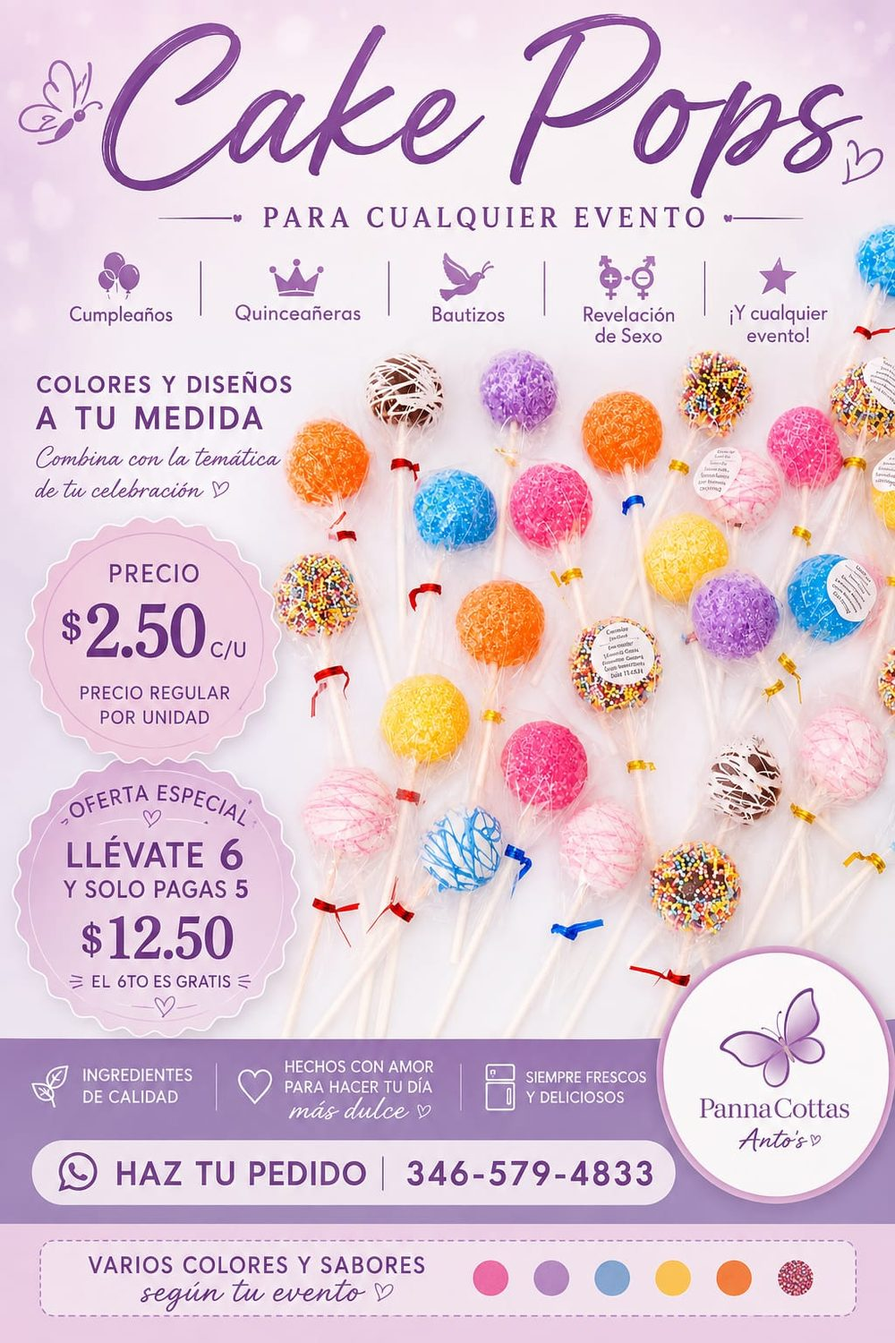
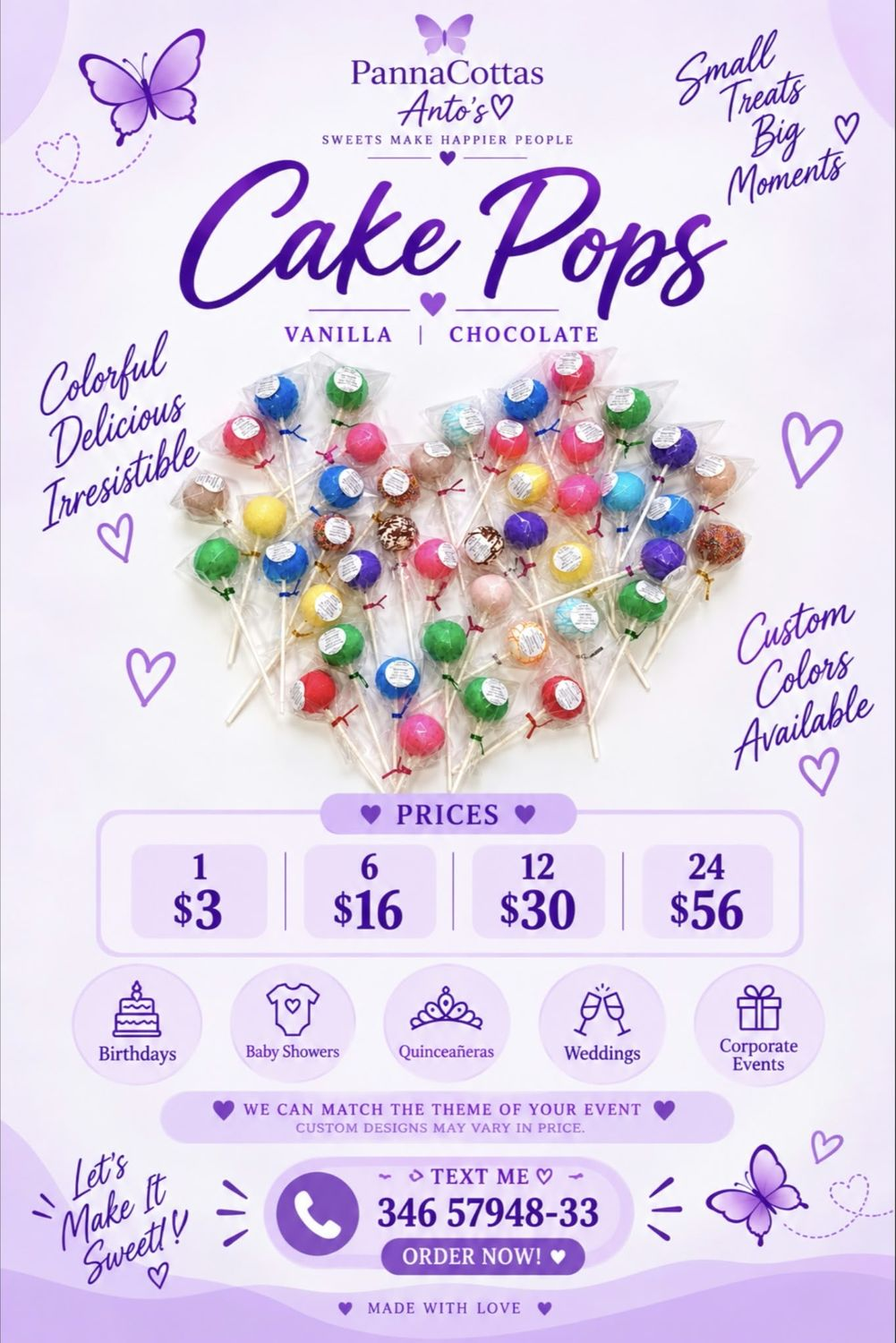
Precios nuevos y sección de Eventos y Celebraciones
Precios actualizados con las cartas de septiembre: panna cotta $5,
cookies $4 (13 sabores), cake pops $3 c/u con bandejas de 6/12/24.
Cartas nuevas de menú general, cookies y cake pops, más una carta
nueva de panna cotta (la rejilla pasa de 6 a 7).

Sección nueva de Eventos y Celebraciones con las seis bandejas de 12
unidades, enlazada desde el menú, el pie y la tarjeta de Postres.

diff --git a/index.html b/index.html
@@ -4,7 +4,7 @@
 <meta charset="UTF-8" />
 <meta name="viewport" content="width=device-width, initial-scale=1.0" />
 <title>Panna Cottas Anto's · Postres artesanales en Katy, TX</title>
-<meta name="description" content="Postres artesanales hechos a mano en pequeñas tandas en Katy, TX. Panna cotta, flan, cake pops, mini tres leches y cookies. Mira el menú y pide por WhatsApp." />
+<meta name="description" content="Postres artesanales hechos a mano en pequeñas tandas en Katy, TX. Panna cotta, flan, cake pops, mini tres leches y cookies, y bandejas de mini postres para eventos. Mira el menú y pide por WhatsApp." />
 <meta name="theme-color" content="#3E2E4F" />
 
 <link rel="canonical" href="https://pannacottas-antos.vercel.app/" />
@@ -16,7 +16,7 @@
 <meta property="og:type" content="website" />
 <meta property="og:site_name" content="Panna Cottas Anto's" />
 <meta property="og:title" content="Panna Cottas Anto's · Postres artesanales en Katy, TX" />
-<meta property="og:description" content="Panna cotta, flan, cake pops, mini tres leches y cookies hechos a mano en pequeñas tandas. Pide por WhatsApp." />
+<meta property="og:description" content="Panna cotta, flan, cake pops, mini tres leches y cookies hechos a mano en pequeñas tandas, y bandejas de mini postres para eventos. Pide por WhatsApp." />
 <meta property="og:url" content="https://pannacottas-antos.vercel.app/" />
 <meta property="og:image" content="https://pannacottas-antos.vercel.app/assets/marca/og.jpg" />
 <meta property="og:image:width" content="1200" />
@@ -229,6 +229,33 @@
   .cta-bfly{width:30px;height:30px;color:var(--lavanda);margin-bottom:.6rem}
   .card-cta h3{font-size:1.75rem;font-weight:500;margin-bottom:.5rem}
   .card-cta p{color:var(--ciruela-soft);font-size:.97rem;margin-bottom:1.3rem}
+  .cta-actions{display:flex;flex-wrap:wrap;gap:.7rem}
+
+  /* ================= EVENTOS Y CELEBRACIONES ================= */
+  .eventos{position:relative;overflow:hidden;margin-top:clamp(3rem,6vw,5rem);
+    padding:clamp(3.2rem,6.5vw,5.5rem) 0;
+    background:linear-gradient(162deg,var(--lavanda-wash) 0%,var(--rosa-wash) 58%,var(--porcelana-alt) 100%)}
+  .eventos .wrap{position:relative;z-index:2}
+  .ev-intro{display:grid;grid-template-columns:1.08fr .92fr;gap:clamp(2rem,5vw,4rem);align-items:center;
+    margin-bottom:clamp(2.4rem,5vw,3.4rem)}
+  .ev-intro h2{font-size:clamp(1.95rem,4vw,3rem);font-weight:500;margin:.7rem 0 .9rem}
+  .ev-intro h2 .script{font-size:1.22em;line-height:.9;display:inline-block}
+  .ev-copy p{color:var(--ciruela-soft);font-size:1.02rem;max-width:34rem}
+  .ev-occ{list-style:none;display:flex;flex-wrap:wrap;gap:.5rem;margin:1.3rem 0 1.7rem;padding:0}
+  .ev-occ li{font-size:.72rem;letter-spacing:.14em;text-transform:uppercase;color:var(--ciruela-soft);
+    background:rgba(255,255,255,.74);border:1px solid rgba(62,46,79,.10);border-radius:999px;padding:.42rem .95rem}
+  .ev-photo{position:relative;display:block;width:100%;padding:0;cursor:zoom-in;overflow:hidden;
+    border:1px solid rgba(255,255,255,.8);border-radius:var(--r-l);background:var(--white);
+    box-shadow:var(--shadow-l);transition:transform .25s ease}
+  .ev-photo:hover{transform:translateY(-4px)}
+  .ev-photo img{width:100%;height:auto}
+  .ev-grid{grid-template-columns:repeat(3,1fr)}
+  .ev-shot{display:block;width:100%;padding:0;border:0;cursor:zoom-in;font:inherit}
+  .ev-shot img{object-position:center 58%}
+  .ev-shot.up img{object-position:center 44%}
+  .ev-note{display:flex;align-items:center;justify-content:center;gap:.6rem;flex-wrap:wrap;text-align:center;
+    margin:clamp(2rem,4vw,2.8rem) auto 0;color:var(--ciruela-soft);font-size:.95rem}
+  .ev-note svg{width:16px;height:16px;color:var(--oro);flex:none}
 
   /* ================= MIÉRCOLES DE WOBBLE ================= */
   .wobble-band{position:relative;background:var(--ciruela);color:#fff;overflow:hidden;margin-top:clamp(3rem,6vw,5rem)}
@@ -260,6 +287,7 @@
     overflow:hidden;cursor:pointer;box-shadow:var(--shadow-s);transition:transform .25s ease,box-shadow .25s ease,border-color .25s ease}
   .menu-tile:hover{transform:translateY(-4px);box-shadow:var(--shadow-m);border-color:var(--lavanda-soft)}
   .menu-tile img{width:100%;height:auto}
+  .menu-tile:last-child:nth-child(3n+1){grid-column:2}
   .zoom{position:absolute;right:.7rem;bottom:.7rem;width:34px;height:34px;border-radius:50%;
     background:rgba(255,255,255,.92);display:flex;align-items:center;justify-content:center;color:var(--ciruela);box-shadow:var(--shadow-s)}
   .zoom svg{width:16px;height:16px}
@@ -351,6 +379,11 @@
     .about-photo{max-width:420px;margin-inline:auto}
     .wobble-inner{grid-template-columns:1fr}
     .foot-grid{grid-template-columns:1fr 1fr}
+    .nav-links{gap:1.05rem}
+    .nav-links a{font-size:.89rem}
+    .ev-intro{grid-template-columns:1fr;gap:2.4rem}
+    .ev-photo{max-width:460px;margin-inline:auto}
+    .ev-grid{grid-template-columns:repeat(2,1fr)}
   }
   @media (max-width:760px){
     body{font-size:16px}
@@ -364,6 +397,8 @@
     .booth-grid{grid-template-columns:1fr}
     .card-cta{grid-column:span 1}
     .menu-grid{grid-template-columns:1fr 1fr}
+    .menu-tile:last-child:nth-child(3n+1){grid-column:auto}
+    .ev-grid{grid-template-columns:1fr}
     .foot-grid{grid-template-columns:1fr;gap:1.8rem}
     .emblem-float{width:104px;right:-4px}
   }
@@ -421,6 +456,7 @@
       <a href="#inicio" data-es="Inicio" data-en="Home">Inicio</a>
       <a href="#sobre" data-es="La historia" data-en="The story">La historia</a>
       <a href="#postres" data-es="Postres" data-en="Desserts">Postres</a>
+      <a href="#eventos" data-es="Eventos" data-en="Events">Eventos</a>
       <a href="#wobble" data-es="El wobble" data-en="The wobble">El wobble</a>
       <a href="#menu" data-es="Menú" data-en="Menu">Menú</a>
       <a href="#booth" data-es="Booth" data-en="Booth">Booth</a>
@@ -521,7 +557,7 @@
         <span class="eyebrow"><svg class="bfly"><use href="#i-bfly"/></svg><span data-es="Nuestros postres" data-en="Our desserts">Nuestros postres</span></span>
         <h2 data-es="El antojo bonito que se comparte." data-en="The pretty craving worth sharing.">El antojo bonito que se comparte.</h2>
       </div>
-      <span class="price-note"><svg><use href="#i-star"/></svg><span data-es="Desde $2.50 · Compra 5 y llévate 1 gratis" data-en="From $2.50 · Buy 5, get 1 free">Desde $2.50 · Compra 5 y llévate 1 gratis</span></span>
+      <span class="price-note"><svg><use href="#i-star"/></svg><span data-es="Desde $3 · Compra 5 y llévate 1 gratis" data-en="From $3 · Buy 5, get 1 free">Desde $3 · Compra 5 y llévate 1 gratis</span></span>
     </div>
     <div class="grid">
 
@@ -531,7 +567,7 @@
           <h3>Panna Cotta</h3>
           <p class="flavors" data-es="Cremosa, temblorosa y suave. Fresa, frutos rojos, durazno, Nutella o dulce de leche, en vasito individual." data-en="Creamy, wobbly and smooth. Strawberry, red berries, peach, Nutella or dulce de leche, in individual cups.">Cremosa, temblorosa y suave. Fresa, frutos rojos, durazno, Nutella o dulce de leche, en vasito individual.</p>
           <div class="card-foot">
-            <span class="from"><small data-es="Desde" data-en="From">Desde</small>$4</span>
+            <span class="from"><small data-es="Desde" data-en="From">Desde</small>$5</span>
             <a class="order-link wa" href="#" target="_blank" rel="noopener" data-msg-es="¡Hola Antonia! 🍓 Quiero pedir Panna Cotta (dime los sabores disponibles)." data-msg-en="Hi Antonia! 🍓 I'd like to order Panna Cotta (which flavors are available?).">
               <span data-es="Pedir" data-en="Order">Pedir</span><svg><use href="#i-arrow"/></svg></a>
           </div>
@@ -555,9 +591,9 @@
         <div class="card-img"><img src="assets/productos/cake-pops.jpg" width="1100" height="870" loading="lazy" decoding="async" alt="Cake pops de colores decorados con sprinkles"><span class="card-tag" data-es="Para eventos" data-en="For events">Para eventos</span></div>
         <div class="card-body">
           <h3>Cake Pops</h3>
-          <p class="flavors" data-es="Bocaditos divertidos de vainilla o chocolate. Perfectos para compartir y celebrar." data-en="Fun little bites of vanilla or chocolate. Perfect to share and celebrate.">Bocaditos divertidos de vainilla o chocolate. Perfectos para compartir y celebrar.</p>
+          <p class="flavors" data-es="Bocaditos divertidos de vainilla o chocolate, perfectos para compartir. 6 por $16 · 12 por $30 · 24 por $56." data-en="Fun little bites of vanilla or chocolate, perfect to share. 6 for $16 · 12 for $30 · 24 for $56.">Bocaditos divertidos de vainilla o chocolate, perfectos para compartir. 6 por $16 · 12 por $30 · 24 por $56.</p>
           <div class="card-foot">
-            <span class="from"><small data-es="Desde" data-en="From">Desde</small>$2.50</span>
+            <span class="from"><small data-es="Desde" data-en="From">Desde</small>$3</span>
             <a class="order-link wa" href="#" target="_blank" rel="noopener" data-msg-es="¡Hola Antonia! 🍭 Quiero pedir Cake Pops (vainilla o chocolate)." data-msg-en="Hi Antonia! 🍭 I'd like to order Cake Pops (vanilla or chocolate).">
               <span data-es="Pedir" data-en="Order">Pedir</span><svg><use href="#i-arrow"/></svg></a>
           </div>
@@ -591,12 +627,12 @@
       </article>
 
       <article class="card reveal">
-        <div class="card-img"><img src="assets/productos/cookies.jpg" width="825" height="1100" loading="lazy" decoding="async" alt="Cookies Anto's: Red Velvet, Oreo Monster, M&amp;M's y más"><span class="card-tag" data-es="14 sabores" data-en="14 flavors">14 sabores</span></div>
+        <div class="card-img"><img src="assets/productos/cookies.jpg" width="825" height="1100" loading="lazy" decoding="async" alt="Cookies Anto's: Red Velvet, Oreo Monster, M&amp;M's y más"><span class="card-tag" data-es="13 sabores" data-en="13 flavors">13 sabores</span></div>
         <div class="card-body">
           <h3>Cookies</h3>
           <p class="flavors" data-es="Oreo Monster, Red Velvet, chips de chocolate, M&amp;M's, Kinder Bueno y más, según la temporada." data-en="Oreo Monster, Red Velvet, chocolate chips, M&amp;M's, Kinder Bueno and more, depending on the season.">Oreo Monster, Red Velvet, chips de chocolate, M&amp;M's, Kinder Bueno y más, según la temporada.</p>
           <div class="card-foot">
-            <span class="from"><small data-es="Desde" data-en="From">Desde</small>$3</span>
+            <span class="from"><small data-es="Desde" data-en="From">Desde</small>$4</span>
             <a class="order-link wa" href="#" target="_blank" rel="noopener" data-msg-es="¡Hola Antonia! 🍪 Quiero pedir Cookies (dime los sabores de la temporada)." data-msg-en="Hi Antonia! 🍪 I'd like to order Cookies (which flavors are in season?).">
               <span data-es="Pedir" data-en="Order">Pedir</span><svg><use href="#i-arrow"/></svg></a>
           </div>
@@ -621,12 +657,137 @@
           <svg class="cta-bfly"><use href="#i-bfly"/></svg>
           <h3 data-es="¿No sabes cuál elegir?" data-en="Not sure which to pick?">¿No sabes cuál elegir?</h3>
           <p data-es="Cuéntame para cuántas personas es y yo te armo la caja. También hacemos pedidos para cumpleaños, baby showers y eventos." data-en="Tell me how many people it's for and I'll put the box together. We also take orders for birthdays, baby showers and events.">Cuéntame para cuántas personas es y yo te armo la caja. También hacemos pedidos para cumpleaños, baby showers y eventos.</p>
-          <a class="btn btn-primary wa" href="#" target="_blank" rel="noopener" data-msg-es="¡Hola Antonia! 🍓 Quiero armar una caja de postres, ¿me ayudas a elegir?" data-msg-en="Hi Antonia! 🍓 I'd like to put together a dessert box, can you help me choose?">
-            <svg><use href="#i-wa"/></svg><span data-es="Armar mi pedido" data-en="Build my order">Armar mi pedido</span></a>
+          <div class="cta-actions">
+            <a class="btn btn-primary wa" href="#" target="_blank" rel="noopener" data-msg-es="¡Hola Antonia! 🍓 Quiero armar una caja de postres, ¿me ayudas a elegir?" data-msg-en="Hi Antonia! 🍓 I'd like to put together a dessert box, can you help me choose?">
+              <svg><use href="#i-wa"/></svg><span data-es="Armar mi pedido" data-en="Build my order">Armar mi pedido</span></a>
+            <a class="btn btn-ghost" href="#eventos" data-es="Bandejas para eventos" data-en="Event trays">Bandejas para eventos</a>
+          </div>
         </div>
       </article>
 
     </div>
+  </div>
+</section>
+
+<!-- ============ EVENTOS Y CELEBRACIONES ============ -->
+<section class="eventos dots" id="eventos">
+  <div class="wrap">
+    <div class="ev-intro">
+      <div class="ev-copy reveal">
+        <span class="eyebrow"><svg class="bfly"><use href="#i-bfly"/></svg><span data-es="Para compartir" data-en="Made to share">Para compartir</span></span>
+        <h2 data-es="Eventos y <span class='script'>Celebraciones</span>" data-en="Events &amp; <span class='script'>Celebrations</span>">Eventos y <span class="script">Celebraciones</span></h2>
+        <p data-es="Celebra con postres artesanales preparados especialmente para compartir. Nuestras presentaciones individuales son perfectas para cumpleaños, baby showers, bodas, reuniones y cualquier ocasión especial." data-en="Celebrate with handcrafted desserts made especially to share. Our individual servings are perfect for birthdays, baby showers, weddings, get-togethers and any special occasion.">Celebra con postres artesanales preparados especialmente para compartir. Nuestras presentaciones individuales son perfectas para cumpleaños, baby showers, bodas, reuniones y cualquier ocasión especial.</p>
+        <p data-es="Elige tus favoritos en bandejas de 12 unidades y combina los sabores para crear una mesa dulce bonita, variada y hecha con mucho cariño." data-en="Pick your favorites in trays of 12 and mix the flavors to create a dessert table that is pretty, varied and made with lots of love.">Elige tus favoritos en bandejas de 12 unidades y combina los sabores para crear una mesa dulce bonita, variada y hecha con mucho cariño.</p>
+        <ul class="ev-occ">
+          <li data-es="Cumpleaños" data-en="Birthdays">Cumpleaños</li>
+          <li data-es="Baby showers" data-en="Baby showers">Baby showers</li>
+          <li data-es="Bodas" data-en="Weddings">Bodas</li>
+          <li data-es="Quinceañeras" data-en="Quinceañeras">Quinceañeras</li>
+          <li data-es="Reuniones" data-en="Get-togethers">Reuniones</li>
+        </ul>
+        <a class="btn btn-primary wa" href="#" target="_blank" rel="noopener"
+           data-msg-es="¡Hola Antonia! 🎉 Quiero armar una mesa dulce para mi evento. ¿Me ayudas con las bandejas?"
+           data-msg-en="Hi Antonia! 🎉 I'd like to put together a dessert table for my event. Can you help me with the trays?">
+          <svg><use href="#i-wa"/></svg><span data-es="Armar mi mesa dulce" data-en="Plan my dessert table">Armar mi mesa dulce</span></a>
+      </div>
+      <button type="button" class="ev-photo reveal" data-full="assets/eventos/mesa-eventos.jpg" data-cap-es="Mesa dulce de eventos con mini panna cottas, mini cakes, mini cremas, mini flanes, mini cake pops y mini cookies" data-cap-en="Event dessert table with mini panna cottas, mini cakes, mini creams, mini flans, mini cake pops and mini cookies" aria-label="Ver la mesa dulce de eventos en grande">
+        <img src="assets/eventos/mesa-eventos.jpg" width="880" height="1100" loading="lazy" decoding="async" alt="Mesa dulce montada para una celebración, con bandejas de mini postres, flores y velas"><span class="zoom"><svg><use href="#i-zoom"/></svg></span>
+      </button>
+    </div>
+
+    <div class="grid ev-grid">
+      <article class="card reveal">
+        <button type="button" class="card-img ev-shot" data-full="assets/eventos/mini-panna-cottas.jpg" data-cap-es="Mini Panna Cottas para eventos · 3 oz · bandeja de 12 · $36" data-cap-en="Mini Panna Cottas for events · 3 oz · tray of 12 · $36" aria-label="Ver la bandeja de mini panna cottas en grande">
+          <img src="assets/eventos/mini-panna-cottas.jpg" width="1100" height="840" loading="lazy" decoding="async" alt="Bandeja de 12 mini panna cottas en vasitos altos con toppings de fresa, frutos rojos, durazno, dulce de leche y Nutella"><span class="zoom"><svg><use href="#i-zoom"/></svg></span><span class="card-tag" data-es="La firma" data-en="Signature">La firma</span>
+        </button>
+        <div class="card-body">
+          <h3 data-es="Mini Panna Cottas" data-en="Mini Panna Cottas">Mini Panna Cottas</h3>
+          <p class="flavors" data-es="Vasitos de 3 oz en fresa, frutos rojos, durazno, dulce de leche y Nutella. Combina los sabores que quieras." data-en="3 oz cups in strawberry, mixed berries, peach, dulce de leche and Nutella. Mix the flavors however you like.">Vasitos de 3 oz en fresa, frutos rojos, durazno, dulce de leche y Nutella. Combina los sabores que quieras.</p>
+          <div class="card-foot">
+            <span class="from"><small data-es="Bandeja de 12" data-en="Tray of 12">Bandeja de 12</small>$36</span>
+            <a class="order-link wa" href="#" target="_blank" rel="noopener" data-msg-es="¡Hola Antonia! 🎉 Quiero una bandeja de 12 Mini Panna Cottas para mi evento." data-msg-en="Hi Antonia! 🎉 I'd like a tray of 12 Mini Panna Cottas for my event.">
+              <span data-es="Pedir" data-en="Order">Pedir</span><svg><use href="#i-arrow"/></svg></a>
+          </div>
+        </div>
+      </article>
+
+      <article class="card reveal">
+        <button type="button" class="card-img ev-shot" data-full="assets/eventos/mini-cakes.jpg" data-cap-es="Mini Cakes para eventos · 4.7 oz · bandeja de 12 · $36" data-cap-en="Mini Cakes for events · 4.7 oz · tray of 12 · $36" aria-label="Ver la bandeja de mini cakes en grande">
+          <img src="assets/eventos/mini-cakes.jpg" width="1100" height="852" loading="lazy" decoding="async" alt="Bandeja de 12 mini tres leches en vasitos con fresa, sprinkles, durazno y dulce de leche"><span class="zoom"><svg><use href="#i-zoom"/></svg></span>
+        </button>
+        <div class="card-body">
+          <h3 data-es="Mini Cakes" data-en="Mini Cakes">Mini Cakes</h3>
+          <p class="flavors" data-es="Tres leches de 4.7 oz en Nutella, fresa, dulce de leche y durazno." data-en="4.7 oz tres leches in Nutella, strawberry, dulce de leche and peach.">Tres leches de 4.7 oz en Nutella, fresa, dulce de leche y durazno.</p>
+          <div class="card-foot">
+            <span class="from"><small data-es="Bandeja de 12" data-en="Tray of 12">Bandeja de 12</small>$36</span>
+            <a class="order-link wa" href="#" target="_blank" rel="noopener" data-msg-es="¡Hola Antonia! 🎉 Quiero una bandeja de 12 Mini Cakes para mi evento." data-msg-en="Hi Antonia! 🎉 I'd like a tray of 12 Mini Cakes for my event.">
+              <span data-es="Pedir" data-en="Order">Pedir</span><svg><use href="#i-arrow"/></svg></a>
+          </div>
+        </div>
+      </article>
+
+      <article class="card reveal">
+        <button type="button" class="card-img ev-shot up" data-full="assets/eventos/mini-cremas.jpg" data-cap-es="Mini Cremas para eventos · 3 oz · bandeja de 12 · $24" data-cap-en="Mini Creams for events · 3 oz · tray of 12 · $24" aria-label="Ver la bandeja de mini cremas en grande">
+          <img src="assets/eventos/mini-cremas.jpg" width="990" height="1100" loading="lazy" decoding="async" alt="Bandeja de 12 mini cremas en vasos con capas de fresa y durazno con crema chantilly"><span class="zoom"><svg><use href="#i-zoom"/></svg></span>
+        </button>
+        <div class="card-body">
+          <h3 data-es="Mini Cremas" data-en="Mini Creams">Mini Cremas</h3>
+          <p class="flavors" data-es="Vasitos de 3 oz en capas: fresa con crema y durazno con crema." data-en="Layered 3 oz cups: strawberries with cream and peaches with cream.">Vasitos de 3 oz en capas: fresa con crema y durazno con crema.</p>
+          <div class="card-foot">
+            <span class="from"><small data-es="Bandeja de 12" data-en="Tray of 12">Bandeja de 12</small>$24</span>
+            <a class="order-link wa" href="#" target="_blank" rel="noopener" data-msg-es="¡Hola Antonia! 🎉 Quiero una bandeja de 12 Mini Cremas para mi evento." data-msg-en="Hi Antonia! 🎉 I'd like a tray of 12 Mini Creams for my event.">
+              <span data-es="Pedir" data-en="Order">Pedir</span><svg><use href="#i-arrow"/></svg></a>
+          </div>
+        </div>
+      </article>
+
+      <article class="card reveal">
+        <button type="button" class="card-img ev-shot" data-full="assets/eventos/mini-flanes.jpg" data-cap-es="Mini Flanes para eventos · bandeja de 12 · $24" data-cap-en="Mini Flans for events · tray of 12 · $24" aria-label="Ver la bandeja de mini flanes en grande">
+          <img src="assets/eventos/mini-flanes.jpg" width="1100" height="847" loading="lazy" decoding="async" alt="Bandeja de 12 mini flanes con caramelo y copete de crema chantilly"><span class="zoom"><svg><use href="#i-zoom"/></svg></span>
+        </button>
+        <div class="card-body">
+          <h3 data-es="Mini Flanes" data-en="Mini Flans">Mini Flanes</h3>
+          <p class="flavors" data-es="Flanes caseros con caramelo, rematados con crema chantilly o dulce de leche." data-en="Homemade flans with caramel, topped with whipped cream or dulce de leche.">Flanes caseros con caramelo, rematados con crema chantilly o dulce de leche.</p>
+          <div class="card-foot">
+            <span class="from"><small data-es="Bandeja de 12" data-en="Tray of 12">Bandeja de 12</small>$24</span>
+            <a class="order-link wa" href="#" target="_blank" rel="noopener" data-msg-es="¡Hola Antonia! 🎉 Quiero una bandeja de 12 Mini Flanes para mi evento." data-msg-en="Hi Antonia! 🎉 I'd like a tray of 12 Mini Flans for my event.">
+              <span data-es="Pedir" data-en="Order">Pedir</span><svg><use href="#i-arrow"/></svg></a>
+          </div>
+        </div>
+      </article>
+
+      <article class="card reveal">
+        <button type="button" class="card-img ev-shot" data-full="assets/eventos/mini-cake-pops.jpg" data-cap-es="Mini Cake Pops para eventos · bandeja de 12 · $24" data-cap-en="Mini Cake Pops for events · tray of 12 · $24" aria-label="Ver la bandeja de mini cake pops en grande">
+          <img src="assets/eventos/mini-cake-pops.jpg" width="917" height="1100" loading="lazy" decoding="async" alt="Bandeja de 12 mini cake pops de colores envueltos individualmente sobre una base transparente"><span class="zoom"><svg><use href="#i-zoom"/></svg></span>
+        </button>
+        <div class="card-body">
+          <h3 data-es="Mini Cake Pops" data-en="Mini Cake Pops">Mini Cake Pops</h3>
+          <p class="flavors" data-es="Bocaditos de unos 20 g en vainilla o chocolate. Colores a elegir para combinar con la temática de tu celebración." data-en="About 20 g each, in vanilla or chocolate. Pick the colors to match your celebration's theme.">Bocaditos de unos 20 g en vainilla o chocolate. Colores a elegir para combinar con la temática de tu celebración.</p>
+          <div class="card-foot">
+            <span class="from"><small data-es="Bandeja de 12" data-en="Tray of 12">Bandeja de 12</small>$24</span>
+            <a class="order-link wa" href="#" target="_blank" rel="noopener" data-msg-es="¡Hola Antonia! 🎉 Quiero una bandeja de 12 Mini Cake Pops para mi evento." data-msg-en="Hi Antonia! 🎉 I'd like a tray of 12 Mini Cake Pops for my event.">
+              <span data-es="Pedir" data-en="Order">Pedir</span><svg><use href="#i-arrow"/></svg></a>
+          </div>
+        </div>
+      </article>
+
+      <article class="card reveal">
+        <button type="button" class="card-img ev-shot" data-full="assets/eventos/mini-cookies.jpg" data-cap-es="Mini Cookies para eventos · bandeja de 12 · $18" data-cap-en="Mini Cookies for events · tray of 12 · $18" aria-label="Ver la bandeja de mini cookies en grande">
+          <img src="assets/eventos/mini-cookies.jpg" width="918" height="1100" loading="lazy" decoding="async" alt="Bandeja de mini cookies artesanales decoradas y envueltas individualmente"><span class="zoom"><svg><use href="#i-zoom"/></svg></span>
+        </button>
+        <div class="card-body">
+          <h3 data-es="Mini Cookies" data-en="Mini Cookies">Mini Cookies</h3>
+          <p class="flavors" data-es="Cookies artesanales de 25 a 30 g, decoradas y envueltas una a una." data-en="Handcrafted cookies of 25 to 30 g, decorated and individually wrapped.">Cookies artesanales de 25 a 30 g, decoradas y envueltas una a una.</p>
+          <div class="card-foot">
+            <span class="from"><small data-es="Bandeja de 12" data-en="Tray of 12">Bandeja de 12</small>$18</span>
+            <a class="order-link wa" href="#" target="_blank" rel="noopener" data-msg-es="¡Hola Antonia! 🎉 Quiero una bandeja de 12 Mini Cookies para mi evento." data-msg-en="Hi Antonia! 🎉 I'd like a tray of 12 Mini Cookies for my event.">
+              <span data-es="Pedir" data-en="Order">Pedir</span><svg><use href="#i-arrow"/></svg></a>
+          </div>
+        </div>
+      </article>
+    </div>
+
+    <p class="ev-note reveal"><svg><use href="#i-star"/></svg><span data-es="¿No sabes cuántas bandejas necesitas? Cuéntame cuántos invitados son y te ayudo a armar la mesa." data-en="Not sure how many trays you need? Tell me how many guests you are expecting and I will help you plan the table.">¿No sabes cuántas bandejas necesitas? Cuéntame cuántos invitados son y te ayudo a armar la mesa.</span></p>
   </div>
 </section>
 
@@ -670,12 +831,14 @@
     <div class="menu-grid reveal">
       <button type="button" class="menu-tile" data-full="assets/menu/menu-general.jpg" data-cap-es="Menú general · Panna Cottas Anto's" data-cap-en="Full menu · Panna Cottas Anto's" aria-label="Ver el menú general en grande">
         <img src="assets/menu/thumbs/menu-general.jpg" width="413" height="620" loading="lazy" decoding="async" alt="Menú general de Panna Cottas Anto's"><span class="zoom"><svg><use href="#i-zoom"/></svg></span></button>
-      <button type="button" class="menu-tile" data-full="assets/menu/cookies.jpg" data-cap-es="Cookies Anto's · 14 sabores a $3" data-cap-en="Anto's Cookies · 14 flavors at $3" aria-label="Ver la carta de cookies en grande">
+      <button type="button" class="menu-tile" data-full="assets/menu/panna-cotta.jpg" data-cap-es="Panna Cotta · 5 sabores a $5" data-cap-en="Panna Cotta · 5 flavors at $5" aria-label="Ver la carta de panna cotta en grande">
+        <img src="assets/menu/thumbs/panna-cotta.jpg" width="408" height="620" loading="lazy" decoding="async" alt="Carta de sabores de panna cotta"><span class="zoom"><svg><use href="#i-zoom"/></svg></span></button>
+      <button type="button" class="menu-tile" data-full="assets/menu/cookies.jpg" data-cap-es="Cookies Anto's · 13 sabores a $4" data-cap-en="Anto's Cookies · 13 flavors at $4" aria-label="Ver la carta de cookies en grande">
         <img src="assets/menu/thumbs/cookies.jpg" width="413" height="620" loading="lazy" decoding="async" alt="Carta de cookies"><span class="zoom"><svg><use href="#i-zoom"/></svg></span></button>
       <button type="button" class="menu-tile" data-full="assets/menu/mini-cakes.jpg" data-cap-es="Mini Tres Leches · $5 c/u" data-cap-en="Mini Tres Leches · $5 each" aria-label="Ver la carta de mini cakes en grande">
         <img src="assets/menu/thumbs/mini-cakes.jpg" width="413" height="620" loading="lazy" decoding="async" alt="Carta de mini cakes de tres leches"><span class="zoom"><svg><use href="#i-zoom"/></svg></span></button>
-      <button type="button" class="menu-tile" data-full="assets/menu/cake-pops.jpg" data-cap-es="Cake Pops · $2.50 c/u · 6 por $12.50" data-cap-en="Cake Pops · $2.50 each · 6 for $12.50" aria-label="Ver la carta de cake pops en grande">
-        <img src="assets/menu/thumbs/cake-pops.jpg" width="413" height="620" loading="lazy" decoding="async" alt="Carta de cake pops"><span class="zoom"><svg><use href="#i-zoom"/></svg></span></button>
+      <button type="button" class="menu-tile" data-full="assets/menu/cake-pops.jpg" data-cap-es="Cake Pops · $3 c/u · 6 por $16 · 12 por $30 · 24 por $56" data-cap-en="Cake Pops · $3 each · 6 for $16 · 12 for $30 · 24 for $56" aria-label="Ver la carta de cake pops en grande">
+        <img src="assets/menu/thumbs/cake-pops.jpg" width="414" height="620" loading="lazy" decoding="async" alt="Carta de cake pops"><span class="zoom"><svg><use href="#i-zoom"/></svg></span></button>
       <button type="button" class="menu-tile" data-full="assets/menu/flan.jpg" data-cap-es="Flan · dulce de leche o crema · $3" data-cap-en="Flan · dulce de leche or whipped cream · $3" aria-label="Ver la carta de flan en grande">
         <img src="assets/menu/thumbs/flan.jpg" width="420" height="620" loading="lazy" decoding="async" alt="Carta de flan"><span class="zoom"><svg><use href="#i-zoom"/></svg></span></button>
       <button type="button" class="menu-tile" data-full="assets/menu/fresas-durazno.jpg" data-cap-es="Fresas y durazno con crema · $3" data-cap-en="Strawberry &amp; peach with cream · $3" aria-label="Ver la carta de fresas y durazno en grande">
@@ -741,6 +904,7 @@
         <a href="#inicio" data-es="Inicio" data-en="Home">Inicio</a>
         <a href="#sobre" data-es="La historia" data-en="The story">La historia</a>
         <a href="#postres" data-es="Postres" data-en="Desserts">Postres</a>
+        <a href="#eventos" data-es="Eventos" data-en="Events">Eventos</a>
         <a href="#wobble" data-es="El wobble" data-en="The wobble">El wobble</a>
         <a href="#menu" data-es="Menú" data-en="Menu">Menú</a>
         <a href="#booth" data-es="Booth" data-en="Booth">Booth</a>

diff --git a/README.md b/README.md
@@ -2,6 +2,9 @@
 
 > Rediseñado en septiembre 2026 según el concepto de rebranding de PYRAXIS.
 > El sitio anterior está respaldado en `../_backups/index-prerebranding-20260903.html`.
+>
+> **17/09/2026** — precios actualizados con las cartas nuevas y sección nueva de
+> *Eventos y Celebraciones*. Versión anterior en `../_backups/index-preprecios-20260917.html`.
 
 Sitio estático (HTML + CSS + JS, sin dependencias ni build). Se despliega tal cual en Vercel.
 
@@ -42,19 +45,25 @@ assets/
 │  └─ hero-pannacotta.jpg     Foto principal de la portada (hero)
 ├─ menu/                       Cartas del menú a tamaño completo (se abren al hacer clic)
 │  └─ thumbs/                  Miniaturas ligeras para la grilla
+├─ eventos/                    Bandejas de mini postres + foto de la mesa dulce
 └─ booth/                      Fotos del puesto + video (con su imagen de portada)
 ```
 
 ## Secciones
 
-`Inicio` · `La historia` · `Postres` · `El wobble` · `Menú` · `Booth`
+`Inicio` · `La historia` · `Postres` · `Eventos` · `El wobble` · `Menú` · `Booth`
 
 - **Postres** — 7 tarjetas con foto real, precio y botón de pedido por WhatsApp, más una
-  tarjeta final de "arma tu caja" para pedidos de eventos.
+  tarjeta final de "arma tu caja" que enlaza a la sección de Eventos.
+- **Eventos** — bandejas de 12 unidades para mesas dulces: 6 tarjetas (mini panna cottas,
+  mini cakes, mini cremas, mini flanes, mini cake pops y mini cookies) con precio por bandeja
+  y pedido por WhatsApp. Todas las fotos se amplían al hacer clic.
 - **El wobble** — "Miércoles de Wobble", el ritual de marca. Lleva el video del puesto en
   formato reel y enlaza a Instagram.
-- **Menú** — las 6 cartas de diseño, en rejilla de 3. Se hace clic en cualquiera y se abre a
+- **Menú** — las 7 cartas de diseño, en rejilla de 3. Se hace clic en cualquiera y se abre a
   pantalla completa, con flechas para pasar de una a otra (también funciona con ← → y Esc).
+  Si la última fila queda con una sola carta, se centra sola (regla
+  `.menu-tile:last-child:nth-child(3n+1)`); no hace falta tocar nada al añadir o quitar cartas.
 - **Booth** — 4 fotos del puesto, todas ampliables.
 
 ## Sistema de marca
@@ -95,5 +104,15 @@ se insertan con `<svg><use href="#i-bfly"/></svg>`.
   actualiza también el `src` (y el `data-full` en las cartas del menú y las fotos del booth).
 - **Fotos nuevas:** conviene bajarlas a ~1100 px de lado largo y calidad ~80 antes de subirlas,
   para que el sitio siga cargando rápido.
+- **Precios:** viven en tres sitios y hay que cambiarlos en los tres a la vez — la tarjeta de
+  la sección Postres (`<span class="from">`), el pie de foto de la carta del menú
+  (`data-cap-es` / `data-cap-en`) y la propia imagen de la carta en `assets/menu/`.
+- **Precios vigentes (17/09/2026):** panna cotta $5 · mini tres leches $5 · cookies $4 (13
+  sabores) · cake pops $3 c/u, 6 por $16, 12 por $30, 24 por $56 · flan $3 · fresas y durazno
+  con crema $3. Bandejas de 12 para eventos: mini panna cottas $36 · mini cakes $36 ·
+  mini cremas $24 · mini flanes $24 · mini cake pops $24 · mini cookies $18.
 - **Pendiente:** `assets/marca/og.jpg` (la imagen que se ve al compartir el link) sigue siendo
   la del diseño anterior. Hay que rehacerla con el lockup nuevo, 1200×630.
+- **Pendiente:** confirmar con Antonia si sigue vigente el "Compra 5 y llévate 1 gratis". Está
+  en la cabecera de Postres y en la de Menú, y en la carta de mini cakes; la carta del menú
+  general nueva ya no lo menciona.
